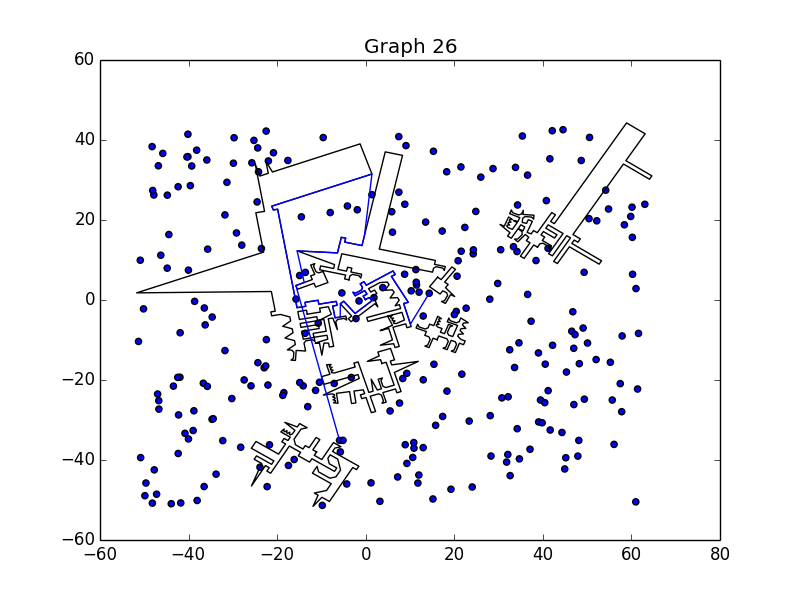
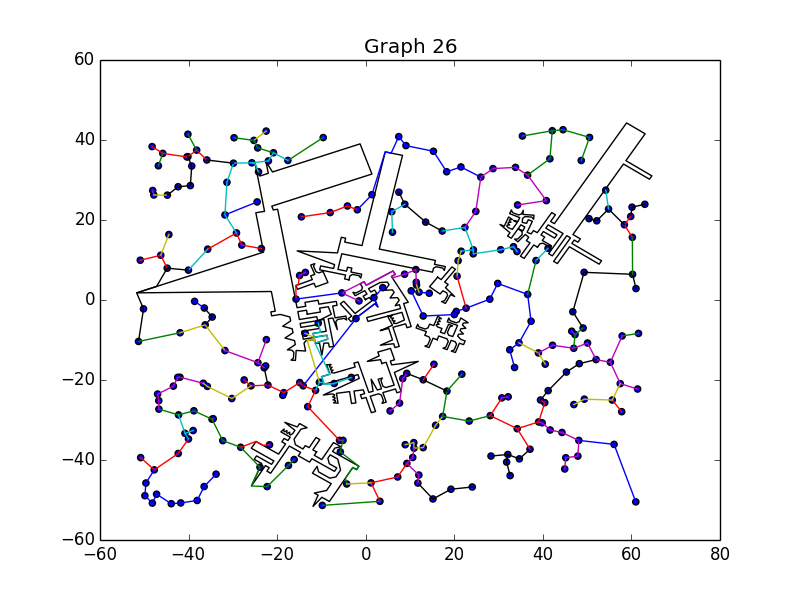
before restructuration with shapely

diff --git a/main.py b/main.py
@@ -1,5 +1,5 @@
 #Imports
-import ast, math, os, time
+import ast, math, os, time, random
 import matplotlib.pyplot as plt
 
 # -------------------- ROBOT PATH GENERATION -----------------------
@@ -123,6 +123,18 @@ def next_obstacle_point(point,obstacle):
 
     return obstacle[index]
 
+def prev_obstacle_point(point,obstacle):
+    if not point in obstacle:
+        return False
+
+    index = obstacle.index(point)
+
+    index = index - 1
+    if index == -1:
+        index = len(obstacle)-1
+
+    return obstacle[index]
+
 #check if segment intersect with obstacle
 def does_intersect(x,y,obstacle):
     for i in range(0,len(obstacle)-1):
@@ -190,7 +202,203 @@ def path_intersection(path,point_to_add):
     return False
 
 
-#take a path between two points and expanding to avoid obstacles
+#take a path between two points and expanding to avoid obstacles (version right)
+def checkPathAlternate(mypath, obstacles):
+
+    # print("New Obstacle")
+    path = mypath[:]
+
+    # print(path)
+
+    start_point = path[len(path)-2]
+    destination_point = path[len(path)-1]
+
+    old_obstacle=[]
+    if len(path)>2:
+        #retrieve previous obstacle
+        old_obstacle = obstacles[len(obstacles)-1]
+        obstacles.pop(len(obstacles)-1)
+
+    obstacle_to_avoid = []
+    obstacle_dist = 0
+    intersection = []
+
+    my_random = random.randint(0, 1)
+
+    #find obstacle to avoid
+    for obstacle in obstacles:
+
+        if (does_intersect(start_point,destination_point,obstacle)):
+            if obstacle_to_avoid == []:
+                obstacle_to_avoid = obstacle
+                intersection = min_intersect(start_point,destination_point,obstacle)
+                obstacle_dist = calc_dist([start_point,intersection[0]])
+
+                # print("\n\nObstacle intialized:"+str(obstacle)+" Does intersect:"+str(does_intersect(start_point,destination_point,obstacle))+" with a dist of "+ str(dist_to_obstacle(start_point,obstacle)) +"\n\n")
+
+            temp_inter = min_intersect(start_point,destination_point,obstacle)
+            if calc_dist([start_point,temp_inter[0]]) < obstacle_dist:
+                # print("\n\nObstacle updated( "+str(obstacle[0])+" ) (old distance ="+str(obstacle_dist)+") new = "+str(dist_to_obstacle(start_point,obstacle)))
+                obstacle_to_avoid = obstacle
+                intersection = temp_inter
+                obstacle_dist = calc_dist([start_point,intersection[0]])
+
+
+
+    if obstacle_to_avoid ==[]:
+        return path
+
+    #if the point found make the path cross keep turning aroung previous obstacle
+    if old_obstacle !=[] and path_intersection(path,intersection[0]):
+        if my_random:
+            next_point = prev_obstacle_point(path[len(path)-2],old_obstacle)
+        else:
+            next_point = next_obstacle_point(path[len(path)-2],old_obstacle)
+
+        #while cross path
+        # temp_count = 0
+        while path_intersection(path,intersection[0]) :
+            # print('cross path')
+            path.insert(len(path)-1,next_point)
+            if my_random:
+                next_point = prev_obstacle_point(next_point,old_obstacle)
+            else:
+                next_point = next_obstacle_point(next_point,old_obstacle)
+            # temp_count = temp_count +1
+            # # if temp_count > len(old_obstacle):
+            # #     return path
+        #whiile point isnt reachable
+        while (not can_reach_obstacle_point(destination_point,path[len(path)-2],old_obstacle)):
+            # print('not reachable')
+            path.insert(len(path)-1,next_point)
+
+            if my_random:
+                next_point = prev_obstacle_point(next_point,old_obstacle)
+            else:
+                next_point = next_obstacle_point(next_point,old_obstacle)
+
+    #first we connect to the point of intersection
+    path.insert(len(path)-1,intersection[0])
+    #then we join the corner
+
+    if my_random:
+        path.insert(len(path)-1,prev_obstacle_point(obstacle_to_avoid[intersection[1]],obstacle_to_avoid))
+    else:
+        path.insert(len(path)-1,next_obstacle_point(obstacle_to_avoid[intersection[1]],obstacle_to_avoid))
+
+    if my_random:
+        next_point = prev_obstacle_point(path[len(path)-2],obstacle_to_avoid)
+    else:
+        next_point = next_obstacle_point(path[len(path)-2],obstacle_to_avoid)
+
+    #we follow wall while it can't reach obstacle
+    while (not can_reach_obstacle_point(destination_point,path[len(path)-2],obstacle_to_avoid)):
+        # print('cant reach')
+        path.insert(len(path)-1,next_point)
+        if my_random:
+            next_point = prev_obstacle_point(next_point,obstacle_to_avoid)
+        else:
+            next_point = next_obstacle_point(next_point,obstacle_to_avoid)
+
+
+    #obstacle has been passed know we need to do the same thing for the next obstacle
+    remaining_obstacles = obstacles[:]
+    remaining_obstacles.remove(obstacle_to_avoid)
+    remaining_obstacles.append(obstacle_to_avoid)
+
+    # print("remaining_obstacles:"+str(remaining_obstacles))
+    # print("Path:"+str(path))
+
+    return checkPath(path, remaining_obstacles)
+
+
+
+def checkPathRight(mypath, obstacles):
+
+    # print("New Obstacle")
+    path = mypath[:]
+
+    # print(path)
+
+    start_point = path[len(path)-2]
+    destination_point = path[len(path)-1]
+
+    old_obstacle=[]
+    if len(path)>2:
+        #retrieve previous obstacle
+        old_obstacle = obstacles[len(obstacles)-1]
+        obstacles.pop(len(obstacles)-1)
+
+    obstacle_to_avoid = []
+    obstacle_dist = 0
+    intersection = []
+
+    #find obstacle to avoid
+    for obstacle in obstacles:
+
+        if (does_intersect(start_point,destination_point,obstacle)):
+            if obstacle_to_avoid == []:
+                obstacle_to_avoid = obstacle
+                intersection = min_intersect(start_point,destination_point,obstacle)
+                obstacle_dist = calc_dist([start_point,intersection[0]])
+
+                # print("\n\nObstacle intialized:"+str(obstacle)+" Does intersect:"+str(does_intersect(start_point,destination_point,obstacle))+" with a dist of "+ str(dist_to_obstacle(start_point,obstacle)) +"\n\n")
+
+            temp_inter = min_intersect(start_point,destination_point,obstacle)
+            if calc_dist([start_point,temp_inter[0]]) < obstacle_dist:
+                # print("\n\nObstacle updated( "+str(obstacle[0])+" ) (old distance ="+str(obstacle_dist)+") new = "+str(dist_to_obstacle(start_point,obstacle)))
+                obstacle_to_avoid = obstacle
+                intersection = temp_inter
+                obstacle_dist = calc_dist([start_point,intersection[0]])
+
+
+
+    if obstacle_to_avoid ==[]:
+        return path
+
+    #if the point found make the path cross keep turning aroung previous obstacle
+    if old_obstacle !=[] and path_intersection(path,intersection[0]):
+        next_point = prev_obstacle_point(path[len(path)-2],old_obstacle)
+
+
+        # temp_count = 0
+        #while cross path
+        while path_intersection(path,intersection[0]) :
+            print('cross path')
+            path.insert(len(path)-1,next_point)
+            next_point = prev_obstacle_point(next_point,old_obstacle)
+            # temp_count = temp_count +1
+            # if temp_count > len(old_obstacle):
+            #     return path
+        #whiile point isnt reachable
+        while (not can_reach_obstacle_point(destination_point,path[len(path)-2],old_obstacle)):
+            # print('not reachable')
+            path.insert(len(path)-1,next_point)
+            next_point = prev_obstacle_point(next_point,old_obstacle)
+
+    #first we connect to the point of intersection
+    path.insert(len(path)-1,intersection[0])
+    #then we join the corner
+    path.insert(len(path)-1,prev_obstacle_point(obstacle_to_avoid[intersection[1]],obstacle_to_avoid))
+    next_point = prev_obstacle_point(path[len(path)-2],obstacle_to_avoid)
+
+    #we follow wall while it can't reach obstacle
+    while (not can_reach_obstacle_point(destination_point,path[len(path)-2],obstacle_to_avoid)):
+        # print('cant reach')
+        path.insert(len(path)-1,next_point)
+        next_point = prev_obstacle_point(next_point,obstacle_to_avoid)
+
+    #obstacle has been passed know we need to do the same thing for the next obstacle
+    remaining_obstacles = obstacles[:]
+    remaining_obstacles.remove(obstacle_to_avoid)
+    remaining_obstacles.append(obstacle_to_avoid)
+
+    # print("remaining_obstacles:"+str(remaining_obstacles))
+    # print("Path:"+str(path))
+
+    return checkPath(path, remaining_obstacles)
+
+
 def checkPath(mypath, obstacles):
 
     # print("New Obstacle")
@@ -239,15 +447,19 @@ def checkPath(mypath, obstacles):
         next_point = next_obstacle_point(path[len(path)-2],old_obstacle)
 
         #while cross path
+        # temp_count = 0
         while path_intersection(path,intersection[0]) :
-             path.insert(len(path)-1,next_point)
-             next_point = next_obstacle_point(next_point,old_obstacle)
-        #whiile point isnt reachable
-        while (not can_reach_obstacle_point(destination_point,path[len(path)-2],old_obstacle)):
+            print('cross path')
             path.insert(len(path)-1,next_point)
             next_point = next_obstacle_point(next_point,old_obstacle)
-
-
+            # temp_count = temp_count +1
+            # if temp_count > len(old_obstacle):
+            #     return path
+        #whiile point isnt reachable
+        while (not can_reach_obstacle_point(destination_point,path[len(path)-2],old_obstacle)):
+            print('not reachable')
+            path.insert(len(path)-1,next_point)
+            next_point = next_obstacle_point(next_point,old_obstacle)
 
     #first we connect to the point of intersection
     path.insert(len(path)-1,intersection[0])
@@ -255,8 +467,9 @@ def checkPath(mypath, obstacles):
     path.insert(len(path)-1,next_obstacle_point(obstacle_to_avoid[intersection[1]],obstacle_to_avoid))
     next_point = next_obstacle_point(path[len(path)-2],obstacle_to_avoid)
 
-    #we follow wall
+    #we follow wall while it can't reach obstacle
     while (not can_reach_obstacle_point(destination_point,path[len(path)-2],obstacle_to_avoid)):
+        # print('cant reach')
         path.insert(len(path)-1,next_point)
         next_point = next_obstacle_point(next_point,obstacle_to_avoid)
 
@@ -287,8 +500,8 @@ def main():
     outputw.write(lines[0])
     outputw.write(lines[1])
 
-    first = 1
-    last = 5
+    first = 14
+    last = 14
     for jump in range(1,first):
         text = f.readline()
 
@@ -353,8 +566,20 @@ def main():
             for index_j in range(index_i+1,len(points)):
                 if paths[index_i][index_j]!=[()]:
                     # For this path find closest intersection
-                    paths[index_i][index_j] = checkPath(paths[index_i][index_j],obstacles)
-                    # print(paths[index_i][index_j])
+                    paths[index_i][index_j] = checkPathRight(paths[index_i][index_j],obstacles)
+
+                    # tempalternate = checkPathAlternate(paths[index_i][index_j],obstacles)
+                    # tempRight = checkPathRight(paths[index_i][index_j],obstacles)
+                    # tempLeft = checkPath(paths[index_i][index_j],obstacles)
+                    #
+                    # if calc_dist(tempalternate)<calc_dist(tempRight) and calc_dist(tempalternate)<calc_dist(tempLeft):
+                    #     paths[index_i][index_j] = tempalternate
+                    #
+                    # elif calc_dist(tempRight)<calc_dist(tempalternate) and calc_dist(tempRight)<calc_dist(tempLeft):
+                    #     paths[index_i][index_j] = tempRight
+                    #
+                    # else:
+                    #     paths[index_i][index_j] = tempLeft
 
                     paths[index_j][index_i] = paths[index_i][index_j][:]
                     paths[index_j][index_i].reverse()

diff --git a/kristelle.py b/kristelle.py
@@ -1,0 +1,50 @@
+import ast, math, os, time, random
+import matplotlib.pyplot as plt
+
+class Point:
+    def __init__(x,y):
+        self.x=x
+        self.y=y
+
+class Vector:
+    def __init__(x,y):
+        self.x=x
+        self.y=y
+
+def collision(tab,P):
+
+  nbp = len(tab)
+
+  for i in range (0,nbp):
+    A=Point(tab[i])
+    B=Point(0,0)
+    if(i==nbp-1):
+      B=tab[0]
+    else:
+      B=tab[i+1]
+    D=Vector(0,0)
+    T=Vector(0,0)
+    D.x = B.x - A.x
+    D.y = B.y - A.y
+    T.x = P.x - A.x
+    T.y = P.y - A.y
+    d=D.x*T.y-D.y*T.x
+    if(d<0):
+      return false
+    i=i+1
+  return true
+
+obstacle = [(-0.9064740078013211, 1.5563537277545438), (-2.266583274985843, 3.022676605336006), (-2.999744713776576, 2.3426219717437435), (-2.319690080184314, 1.6094605329530127), (-3.786012957765777, 0.24935126576849131), (-3.1059583241735136, -0.4838101730222415), (-2.3727968853827823, 0.19624446057002065), (-1.6927422517905226, -0.5369169782207104), (-3.159065129371985, -1.8970262454052325), (-2.4790104957797245, -2.6301876841959646), (-1.7458490569889917, -1.9501330506037022), (-1.065794423396728, -2.683294489394432), (-2.53211730097819, -4.043403756578957), (-1.8520626673859293, -4.776565195369688), (-1.118901228595197, -4.096510561777427), (-0.43884659500293377, -4.8296720005681575), (-1.9051694725843982, -6.189781267752679), (-1.225114838992135, -6.9229427065434095), (0.9743694773800569, -4.882778805766625), (-0.38573978980446577, -3.4164559281851647), (0.34742164898626493, -2.736401294592905), (-1.0126876181982591, -1.2700784170114416), (-0.2795261794075282, -0.5900237834191802), (-1.639635446592052, 0.8762990941622821)]
+fig=plt.figure()
+ax=fig.add_subplot(111)
+x=[]
+y=[]
+for i in range(0,len(obstacle)):
+    x.append(obstacle[i][0])
+    y.append(obstacle[i][1])
+x.append(obstacle[0][0])
+y.append(obstacle[0][1])
+plt.plot(x,y,'k')
+plt.show()
+
+print(collision(obstacle,))
